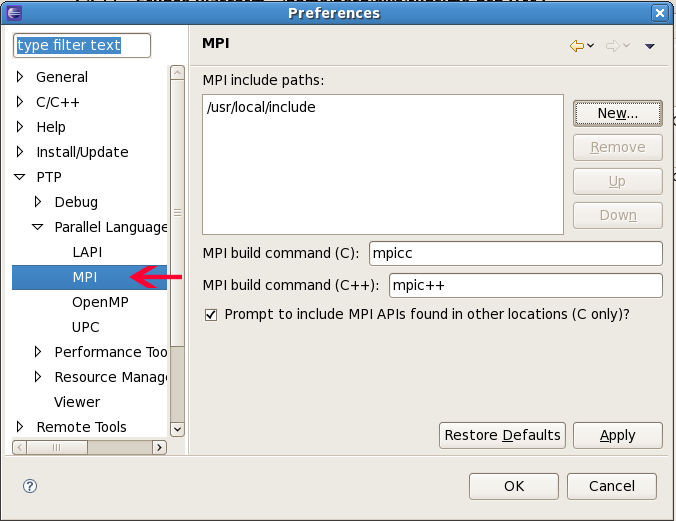
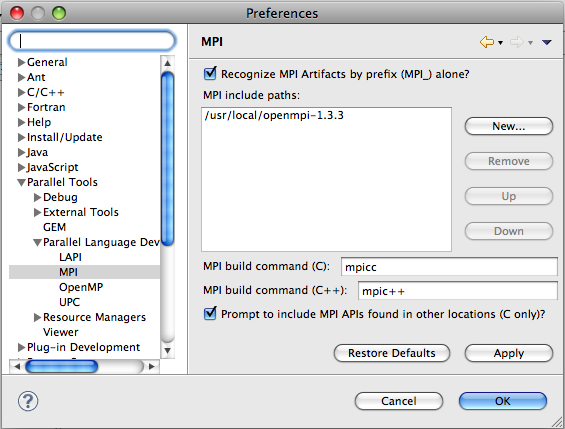
help updates

diff --git a/tools/org.eclipse.ptp.pldt.help/html/setup.html b/tools/org.eclipse.ptp.pldt.help/html/setup.html
@@ -38,6 +38,9 @@ Development Tools" section in the preferences will be in the main list.)
 for in the MPI Artifact view.  You can also specify the default MPI build command.
 These values will make the MPI New Project Wizard page make more
 accurate predictions of settings for new projects.
+<p>There is now an optional checkbox to "Recognize MPI Artifacts by prefix alone" - if this
+is checked, then artifacts will be identified solely on the "MPI_" prefix, which is
+less confusing and error-prone for new users.
 <br><img src="images/pldt-prefs1.png">
 
 <p>The "Prompt to include MPI APIs found in other locations (C only)" indicates whether 

diff --git a/tools/org.eclipse.ptp.pldt.help/html/upc.html b/tools/org.eclipse.ptp.pldt.help/html/upc.html
@@ -19,6 +19,7 @@ and some differences for UPC are noted here.
 It requires an alternative parser, etc. from the regular CDT C and C++ support.
 See <a href="http://wiki.eclipse.org/PTP/other_tools_setup">UPC tools setup</a> on the PTP wiki
 for how to install CDT optional features for UPC support.
+<p>See also the information on <a href="upc_wizards.html">UPC New Project wizards</a> and toolchains in CDT.
 
 <h2 id="prefs">UPC Preferences</h2>
 <p>Set up UPC Preferences. Here you can specify the UPC include file location.

diff --git a/tools/org.eclipse.ptp.pldt.help/html/upc_wizards.html b/tools/org.eclipse.ptp.pldt.help/html/upc_wizards.html
@@ -14,11 +14,11 @@ UPC New Project Wizards and Toolchains
 <li>Berkeley UPC
 <li>IBM XLUPC 
 </ul>
-<p>Since information may not be available within CDT, we describe them briefly here.
-
-<h2 id="bupc">Berkeley UPC</h2>
-
-<h2 id="xlupc">IBM xlUPC</h2>
+<p>Since these are part CDT, we only mention them briefly here.
+<p>
+<img src="images/upcWizards.png">
+<p>Be sure the toolchain on the right side of the wizard selection page is used to
+select the correct toolchain for your platform.
 
 
 
